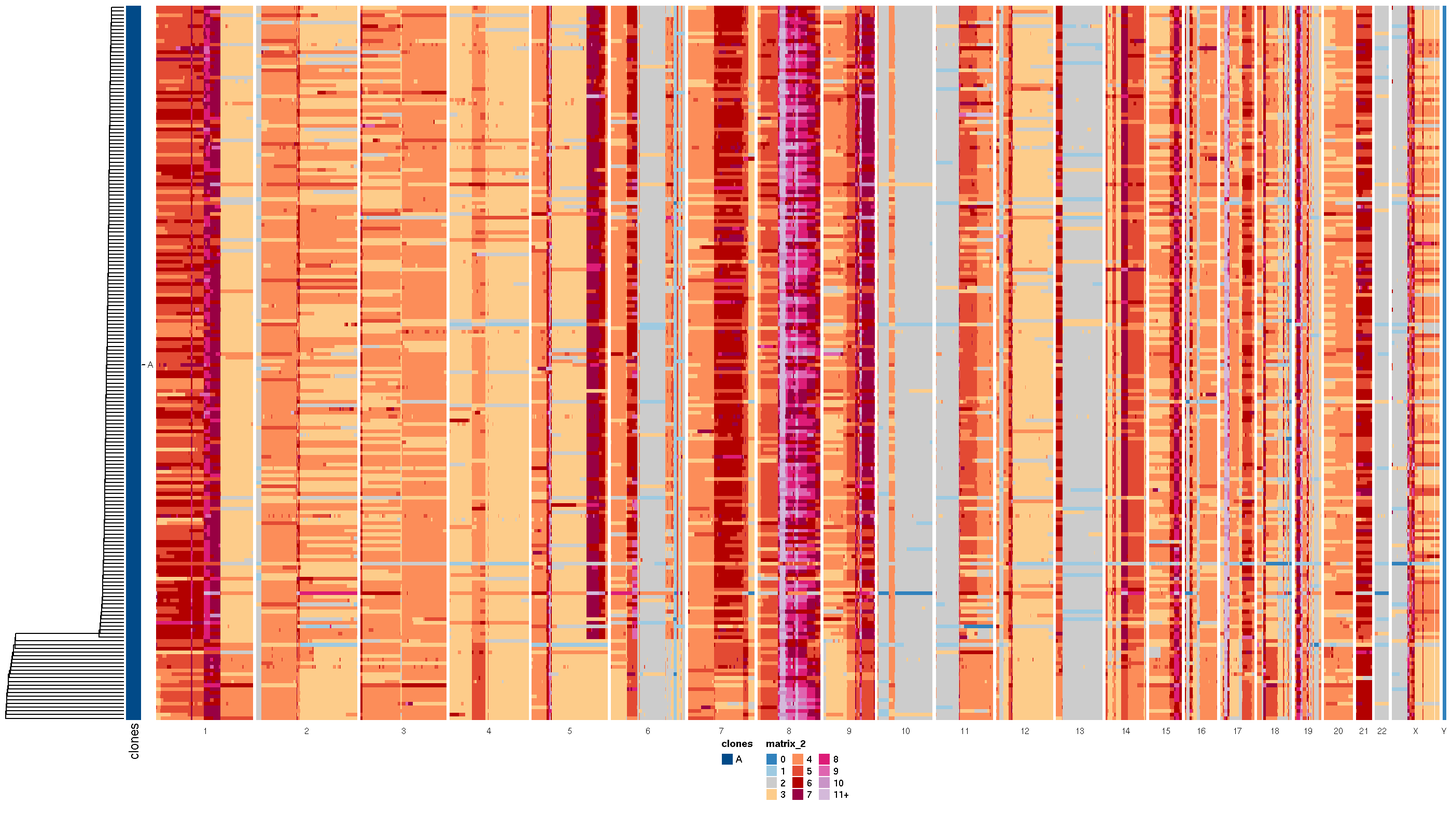
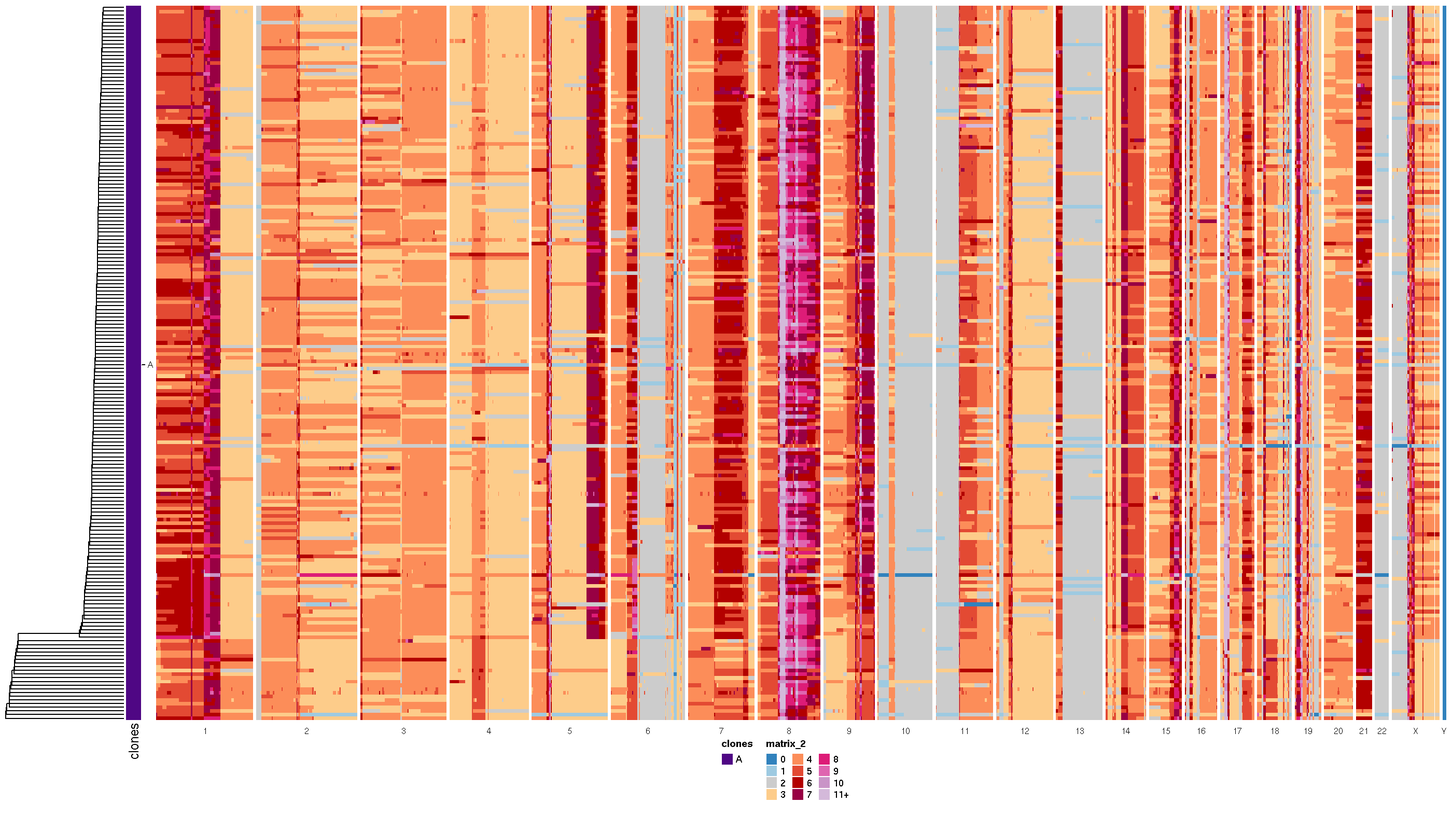
chore: rerender vignette

Changed region(s): [[0.0621, 0.0, 0.9943, 0.875], [0.4971, 0.9062, 0.5282, 0.9375]]

diff --git a/vignettes/basic_analyses_and_heatmaps.html b/vignettes/basic_analyses_and_heatmaps.html
@@ -391,10 +391,10 @@ these in relation to your project and sequence data at hand.</p>
 <span id="cb3-14"><a href="#cb3-14" tabindex="-1"></a>  dplyr<span class="sc">::</span><span class="fu">mutate</span>(</span>
 <span id="cb3-15"><a href="#cb3-15" tabindex="-1"></a>    <span class="at">good_cell =</span> dplyr<span class="sc">::</span><span class="fu">if_else</span>(</span>
 <span id="cb3-16"><a href="#cb3-16" tabindex="-1"></a>      quality <span class="sc">&gt;=</span> <span class="fl">0.75</span> <span class="sc">&amp;</span> <span class="co"># cells of high RF quality</span></span>
-<span id="cb3-17"><a href="#cb3-17" tabindex="-1"></a>      <span class="sc">!</span>is_control <span class="sc">&amp;</span> <span class="co"># non-control cells</span></span>
-<span id="cb3-18"><a href="#cb3-18" tabindex="-1"></a>      cell_call <span class="sc">==</span> <span class="st">&quot;C1&quot;</span> <span class="sc">&amp;</span> <span class="co"># live cells</span></span>
-<span id="cb3-19"><a href="#cb3-19" tabindex="-1"></a>      <span class="sc">!</span>is_s_phase <span class="sc">&amp;</span> <span class="co"># that are not estimated to be in S-phase</span></span>
-<span id="cb3-20"><a href="#cb3-20" tabindex="-1"></a>      total_mapped_reads <span class="sc">&gt;=</span> <span class="dv">250000</span>, <span class="co"># and have a reasonable amount of reads</span></span>
+<span id="cb3-17"><a href="#cb3-17" tabindex="-1"></a>        <span class="sc">!</span>is_control <span class="sc">&amp;</span> <span class="co"># non-control cells</span></span>
+<span id="cb3-18"><a href="#cb3-18" tabindex="-1"></a>        cell_call <span class="sc">==</span> <span class="st">&quot;C1&quot;</span> <span class="sc">&amp;</span> <span class="co"># live cells</span></span>
+<span id="cb3-19"><a href="#cb3-19" tabindex="-1"></a>        <span class="sc">!</span>is_s_phase <span class="sc">&amp;</span> <span class="co"># that are not estimated to be in S-phase</span></span>
+<span id="cb3-20"><a href="#cb3-20" tabindex="-1"></a>        total_mapped_reads <span class="sc">&gt;=</span> <span class="dv">250000</span>, <span class="co"># and have a reasonable amount of reads</span></span>
 <span id="cb3-21"><a href="#cb3-21" tabindex="-1"></a>      <span class="cn">TRUE</span>,</span>
 <span id="cb3-22"><a href="#cb3-22" tabindex="-1"></a>      <span class="cn">FALSE</span></span>
 <span id="cb3-23"><a href="#cb3-23" tabindex="-1"></a>    )</span>
@@ -419,28 +419,29 @@ for analyses with a few thresholds:</p>
 <span id="cb4-13"><a href="#cb4-13" tabindex="-1"></a><span class="co"># first, let&#39;s mark the ones that fall into regions we want to mask</span></span>
 <span id="cb4-14"><a href="#cb4-14" tabindex="-1"></a><span class="co"># see README.md for accessing this file.</span></span>
 <span id="cb4-15"><a href="#cb4-15" tabindex="-1"></a>reads <span class="ot">&lt;-</span> dlptools<span class="sc">::</span><span class="fu">mark_mask_regions</span>(</span>
-<span id="cb4-16"><a href="#cb4-16" tabindex="-1"></a>  reads, <span class="at">mask_f =</span> <span class="st">&quot;../meta_data/blacklist_2023.07.17.txt&quot;</span></span>
-<span id="cb4-17"><a href="#cb4-17" tabindex="-1"></a>)</span>
-<span id="cb4-18"><a href="#cb4-18" tabindex="-1"></a><span class="co">#&gt; Rows: 26 Columns: 4</span></span>
-<span id="cb4-19"><a href="#cb4-19" tabindex="-1"></a><span class="co">#&gt; ── Column specification ────────────────────────────────────────────────────────</span></span>
-<span id="cb4-20"><a href="#cb4-20" tabindex="-1"></a><span class="co">#&gt; Delimiter: &quot;\t&quot;</span></span>
-<span id="cb4-21"><a href="#cb4-21" tabindex="-1"></a><span class="co">#&gt; chr (1): seqnames</span></span>
-<span id="cb4-22"><a href="#cb4-22" tabindex="-1"></a><span class="co">#&gt; dbl (3): start, end, width</span></span>
-<span id="cb4-23"><a href="#cb4-23" tabindex="-1"></a><span class="co">#&gt; </span></span>
-<span id="cb4-24"><a href="#cb4-24" tabindex="-1"></a><span class="co">#&gt; ℹ Use `spec()` to retrieve the full column specification for this data.</span></span>
-<span id="cb4-25"><a href="#cb4-25" tabindex="-1"></a><span class="co">#&gt; ℹ Specify the column types or set `show_col_types = FALSE` to quiet this message.</span></span>
-<span id="cb4-26"><a href="#cb4-26" tabindex="-1"></a></span>
-<span id="cb4-27"><a href="#cb4-27" tabindex="-1"></a><span class="co"># then, we can add a column for which count as &quot;good&quot; bins</span></span>
-<span id="cb4-28"><a href="#cb4-28" tabindex="-1"></a>reads <span class="ot">&lt;-</span> reads <span class="sc">|&gt;</span></span>
-<span id="cb4-29"><a href="#cb4-29" tabindex="-1"></a>  dplyr<span class="sc">::</span><span class="fu">mutate</span>(</span>
-<span id="cb4-30"><a href="#cb4-30" tabindex="-1"></a>    <span class="at">good_bin =</span> dplyr<span class="sc">::</span><span class="fu">if_else</span>(</span>
-<span id="cb4-31"><a href="#cb4-31" tabindex="-1"></a>      <span class="sc">!</span>mask <span class="sc">&amp;</span> <span class="co"># does not fall into mask region</span></span>
-<span id="cb4-32"><a href="#cb4-32" tabindex="-1"></a>      gc <span class="sc">&gt;</span> <span class="sc">-</span><span class="dv">1</span> <span class="sc">&amp;</span> <span class="co"># bin went through GC correciton</span></span>
-<span id="cb4-33"><a href="#cb4-33" tabindex="-1"></a>      map <span class="sc">&gt;</span> <span class="fl">0.99</span>, <span class="co"># read bin is in a high mappability region</span></span>
-<span id="cb4-34"><a href="#cb4-34" tabindex="-1"></a>      <span class="cn">TRUE</span>,</span>
-<span id="cb4-35"><a href="#cb4-35" tabindex="-1"></a>      <span class="cn">FALSE</span></span>
-<span id="cb4-36"><a href="#cb4-36" tabindex="-1"></a>    )</span>
-<span id="cb4-37"><a href="#cb4-37" tabindex="-1"></a>  )</span></code></pre></div>
+<span id="cb4-16"><a href="#cb4-16" tabindex="-1"></a>  reads,</span>
+<span id="cb4-17"><a href="#cb4-17" tabindex="-1"></a>  <span class="at">mask_f =</span> <span class="st">&quot;../meta_data/blacklist_2023.07.17.txt&quot;</span></span>
+<span id="cb4-18"><a href="#cb4-18" tabindex="-1"></a>)</span>
+<span id="cb4-19"><a href="#cb4-19" tabindex="-1"></a><span class="co">#&gt; Rows: 26 Columns: 4</span></span>
+<span id="cb4-20"><a href="#cb4-20" tabindex="-1"></a><span class="co">#&gt; ── Column specification ────────────────────────────────────────────────────────</span></span>
+<span id="cb4-21"><a href="#cb4-21" tabindex="-1"></a><span class="co">#&gt; Delimiter: &quot;\t&quot;</span></span>
+<span id="cb4-22"><a href="#cb4-22" tabindex="-1"></a><span class="co">#&gt; chr (1): seqnames</span></span>
+<span id="cb4-23"><a href="#cb4-23" tabindex="-1"></a><span class="co">#&gt; dbl (3): start, end, width</span></span>
+<span id="cb4-24"><a href="#cb4-24" tabindex="-1"></a><span class="co">#&gt; </span></span>
+<span id="cb4-25"><a href="#cb4-25" tabindex="-1"></a><span class="co">#&gt; ℹ Use `spec()` to retrieve the full column specification for this data.</span></span>
+<span id="cb4-26"><a href="#cb4-26" tabindex="-1"></a><span class="co">#&gt; ℹ Specify the column types or set `show_col_types = FALSE` to quiet this message.</span></span>
+<span id="cb4-27"><a href="#cb4-27" tabindex="-1"></a></span>
+<span id="cb4-28"><a href="#cb4-28" tabindex="-1"></a><span class="co"># then, we can add a column for which count as &quot;good&quot; bins</span></span>
+<span id="cb4-29"><a href="#cb4-29" tabindex="-1"></a>reads <span class="ot">&lt;-</span> reads <span class="sc">|&gt;</span></span>
+<span id="cb4-30"><a href="#cb4-30" tabindex="-1"></a>  dplyr<span class="sc">::</span><span class="fu">mutate</span>(</span>
+<span id="cb4-31"><a href="#cb4-31" tabindex="-1"></a>    <span class="at">good_bin =</span> dplyr<span class="sc">::</span><span class="fu">if_else</span>(</span>
+<span id="cb4-32"><a href="#cb4-32" tabindex="-1"></a>      <span class="sc">!</span>mask <span class="sc">&amp;</span> <span class="co"># does not fall into mask region</span></span>
+<span id="cb4-33"><a href="#cb4-33" tabindex="-1"></a>        gc <span class="sc">&gt;</span> <span class="sc">-</span><span class="dv">1</span> <span class="sc">&amp;</span> <span class="co"># bin went through GC correciton</span></span>
+<span id="cb4-34"><a href="#cb4-34" tabindex="-1"></a>        map <span class="sc">&gt;</span> <span class="fl">0.99</span>, <span class="co"># read bin is in a high mappability region</span></span>
+<span id="cb4-35"><a href="#cb4-35" tabindex="-1"></a>      <span class="cn">TRUE</span>,</span>
+<span id="cb4-36"><a href="#cb4-36" tabindex="-1"></a>      <span class="cn">FALSE</span></span>
+<span id="cb4-37"><a href="#cb4-37" tabindex="-1"></a>    )</span>
+<span id="cb4-38"><a href="#cb4-38" tabindex="-1"></a>  )</span></code></pre></div>
 <p>Now we can combine the reads state calls with the metrics, i.e.,
 contextualizing the state calls with the cell level metrics:</p>
 <div class="sourceCode" id="cb5"><pre class="sourceCode r"><code class="sourceCode r"><span id="cb5-1"><a href="#cb5-1" tabindex="-1"></a>reads <span class="ot">&lt;-</span> dplyr<span class="sc">::</span><span class="fu">left_join</span>(</span>
@@ -535,7 +536,7 @@ of filtered reads.</p>
 <span id="cb7-31"><a href="#cb7-31" tabindex="-1"></a>  <span class="at">clones_df =</span> clusters<span class="sc">$</span>clustering,</span>
 <span id="cb7-32"><a href="#cb7-32" tabindex="-1"></a>  <span class="co"># can save direct to file by adding:</span></span>
 <span id="cb7-33"><a href="#cb7-33" tabindex="-1"></a>  <span class="co"># remove to print to screen (but plots are typically large)</span></span>
-<span id="cb7-34"><a href="#cb7-34" tabindex="-1"></a>  <span class="at">file_name=</span><span class="st">&quot;../example_heatmaps/example_hdbscan.png&quot;</span></span>
+<span id="cb7-34"><a href="#cb7-34" tabindex="-1"></a>  <span class="at">file_name =</span> <span class="st">&quot;../example_heatmaps/example_hdbscan.png&quot;</span></span>
 <span id="cb7-35"><a href="#cb7-35" tabindex="-1"></a>)</span>
 <span id="cb7-36"><a href="#cb7-36" tabindex="-1"></a><span class="co">#&gt; Registered S3 methods overwritten by &#39;treeio&#39;:</span></span>
 <span id="cb7-37"><a href="#cb7-37" tabindex="-1"></a><span class="co">#&gt;   method              from    </span></span>
@@ -591,68 +592,71 @@ of filtered reads.</p>
 <span id="cb7-87"><a href="#cb7-87" tabindex="-1"></a><span class="co">#&gt; &#39;magick&#39; package is suggested to install to give better rasterization.</span></span>
 <span id="cb7-88"><a href="#cb7-88" tabindex="-1"></a><span class="co">#&gt; </span></span>
 <span id="cb7-89"><a href="#cb7-89" tabindex="-1"></a><span class="co">#&gt; Set `ht_opt$message = FALSE` to turn off this message.</span></span></code></pre></div>
[2 lines of base64/hex data omitted]
+<div class="sourceCode" id="cb8"><pre class="sourceCode r"><code class="sourceCode r"><span id="cb8-1"><a href="#cb8-1" tabindex="-1"></a></span>
+<span id="cb8-2"><a href="#cb8-2" tabindex="-1"></a><span class="co"># this plot will look bad in the vignette, see the example ouputs in the</span></span>
+<span id="cb8-3"><a href="#cb8-3" tabindex="-1"></a><span class="co"># example_heatmaps/ folder.</span></span></code></pre></div>
 <p>If you’ve run sitka (perhaps using the <a href="https://github.com/molonc/sitka_wrapper">sitka_wrapper</a>), you
 can read in the newick tree file created and do much the same plot.
 Presumably you would have also used the leiden_cut method for clone
 labelling, and will need that file too.</p>
-<div class="sourceCode" id="cb8"><pre class="sourceCode r"><code class="sourceCode r"><span id="cb8-1"><a href="#cb8-1" tabindex="-1"></a><span class="co"># here, pulled from the example files in the tree_cutting/ section of the</span></span>
-<span id="cb8-2"><a href="#cb8-2" tabindex="-1"></a><span class="co"># sitka_wrapper repo linked above</span></span>
-<span id="cb8-3"><a href="#cb8-3" tabindex="-1"></a>sitka_files <span class="ot">&lt;-</span> <span class="st">&quot;/projects/molonc/aparicio_lab/bfurman/code/sitka_wrapper/tree_cutting/example_inputs/&quot;</span></span>
-<span id="cb8-4"><a href="#cb8-4" tabindex="-1"></a>clones_f <span class="ot">&lt;-</span> fs<span class="sc">::</span><span class="fu">path_join</span>(<span class="fu">c</span>(sitka_files, <span class="st">&quot;leiden_clones_reso010_nb10.csv&quot;</span>))</span>
-<span id="cb8-5"><a href="#cb8-5" tabindex="-1"></a>sitka_reads_f <span class="ot">&lt;-</span> fs<span class="sc">::</span><span class="fu">path_join</span>(<span class="fu">c</span>(sitka_files, <span class="st">&quot;filtered_cell_state_calls.csv.gz&quot;</span>))</span>
-<span id="cb8-6"><a href="#cb8-6" tabindex="-1"></a>sitka_tree_f <span class="ot">&lt;-</span> fs<span class="sc">::</span><span class="fu">path_join</span>(<span class="fu">c</span>(sitka_files, <span class="st">&quot;tree.newick&quot;</span>))</span>
-<span id="cb8-7"><a href="#cb8-7" tabindex="-1"></a></span>
-<span id="cb8-8"><a href="#cb8-8" tabindex="-1"></a><span class="co"># sitka trees need a little cleaning, so run through the tree formatting</span></span>
-<span id="cb8-9"><a href="#cb8-9" tabindex="-1"></a><span class="co"># function to drop &#39;locus_&#39; values at tips, and clean off &#39;cell_&#39; names from</span></span>
-<span id="cb8-10"><a href="#cb8-10" tabindex="-1"></a><span class="co"># tree leafs</span></span>
-<span id="cb8-11"><a href="#cb8-11" tabindex="-1"></a>sitka_tree <span class="ot">&lt;-</span> dlptools<span class="sc">::</span><span class="fu">import_tree</span>(sitka_tree_f) <span class="sc">|&gt;</span></span>
-<span id="cb8-12"><a href="#cb8-12" tabindex="-1"></a>  dlptools<span class="sc">::</span><span class="fu">format_sitka_tree</span>()</span>
-<span id="cb8-13"><a href="#cb8-13" tabindex="-1"></a></span>
-<span id="cb8-14"><a href="#cb8-14" tabindex="-1"></a><span class="co"># expects a file with columns of: cell_id, clone_id</span></span>
-<span id="cb8-15"><a href="#cb8-15" tabindex="-1"></a>clones <span class="ot">&lt;-</span> dlptools<span class="sc">::</span><span class="fu">import_clones</span>(clones_f)</span>
-<span id="cb8-16"><a href="#cb8-16" tabindex="-1"></a><span class="co">#&gt; Rows: 875 Columns: 3</span></span>
-<span id="cb8-17"><a href="#cb8-17" tabindex="-1"></a><span class="co">#&gt; ── Column specification ────────────────────────────────────────────────────────</span></span>
-<span id="cb8-18"><a href="#cb8-18" tabindex="-1"></a><span class="co">#&gt; Delimiter: &quot;,&quot;</span></span>
-<span id="cb8-19"><a href="#cb8-19" tabindex="-1"></a><span class="co">#&gt; chr (2): cell_id, clone_id</span></span>
-<span id="cb8-20"><a href="#cb8-20" tabindex="-1"></a><span class="co">#&gt; dbl (1): clone_label</span></span>
-<span id="cb8-21"><a href="#cb8-21" tabindex="-1"></a><span class="co">#&gt; </span></span>
-<span id="cb8-22"><a href="#cb8-22" tabindex="-1"></a><span class="co">#&gt; ℹ Use `spec()` to retrieve the full column specification for this data.</span></span>
-<span id="cb8-23"><a href="#cb8-23" tabindex="-1"></a><span class="co">#&gt; ℹ Specify the column types or set `show_col_types = FALSE` to quiet this message.</span></span>
-<span id="cb8-24"><a href="#cb8-24" tabindex="-1"></a></span>
-<span id="cb8-25"><a href="#cb8-25" tabindex="-1"></a><span class="co"># standard sitka input format</span></span>
-<span id="cb8-26"><a href="#cb8-26" tabindex="-1"></a>sitka_reads <span class="ot">&lt;-</span> dlptools<span class="sc">::</span><span class="fu">import_wideformat_states_file</span>(sitka_reads_f)</span>
-<span id="cb8-27"><a href="#cb8-27" tabindex="-1"></a><span class="co">#&gt; New names:</span></span>
-<span id="cb8-28"><a href="#cb8-28" tabindex="-1"></a><span class="co">#&gt; Rows: 4338 Columns: 876</span></span>
-<span id="cb8-29"><a href="#cb8-29" tabindex="-1"></a><span class="co">#&gt; ── Column specification</span></span>
-<span id="cb8-30"><a href="#cb8-30" tabindex="-1"></a><span class="co">#&gt; ──────────────────────────────────────────────────────── Delimiter: &quot;,&quot; chr</span></span>
-<span id="cb8-31"><a href="#cb8-31" tabindex="-1"></a><span class="co">#&gt; (1): ...1 dbl (875): AT21552-A138971A-R03-C09, AT21552-A138971A-R03-C10,</span></span>
-<span id="cb8-32"><a href="#cb8-32" tabindex="-1"></a><span class="co">#&gt; AT21552-A1389...</span></span>
-<span id="cb8-33"><a href="#cb8-33" tabindex="-1"></a><span class="co">#&gt; ℹ Use `spec()` to retrieve the full column specification for this data. ℹ</span></span>
-<span id="cb8-34"><a href="#cb8-34" tabindex="-1"></a><span class="co">#&gt; Specify the column types or set `show_col_types = FALSE` to quiet this message.</span></span>
-<span id="cb8-35"><a href="#cb8-35" tabindex="-1"></a><span class="co">#&gt; • `` -&gt; `...1`</span></span>
-<span id="cb8-36"><a href="#cb8-36" tabindex="-1"></a></span>
-<span id="cb8-37"><a href="#cb8-37" tabindex="-1"></a><span class="co"># set up or read external annotations file with: </span></span>
-<span id="cb8-38"><a href="#cb8-38" tabindex="-1"></a><span class="co"># dlptools::import_annotations_df(anno_file)</span></span>
-<span id="cb8-39"><a href="#cb8-39" tabindex="-1"></a>anno_df <span class="ot">&lt;-</span> <span class="fu">tibble</span>(</span>
-<span id="cb8-40"><a href="#cb8-40" tabindex="-1"></a>  <span class="co"># bit of a boring example, because we only have one sample and one library</span></span>
-<span id="cb8-41"><a href="#cb8-41" tabindex="-1"></a>  <span class="at">sample_id =</span> <span class="fu">c</span>(<span class="st">&quot;AT21552&quot;</span>, <span class="st">&quot;AT21350&quot;</span>),</span>
-<span id="cb8-42"><a href="#cb8-42" tabindex="-1"></a>  <span class="at">passage =</span> <span class="fu">c</span>(<span class="st">&quot;p3&quot;</span>, <span class="st">&quot;p23&quot;</span>),</span>
-<span id="cb8-43"><a href="#cb8-43" tabindex="-1"></a>  <span class="at">somthing_else =</span> <span class="fu">c</span>(<span class="st">&quot;featureA&quot;</span>, <span class="st">&quot;featureB&quot;</span>)</span>
-<span id="cb8-44"><a href="#cb8-44" tabindex="-1"></a>)</span>
-<span id="cb8-45"><a href="#cb8-45" tabindex="-1"></a></span>
-<span id="cb8-46"><a href="#cb8-46" tabindex="-1"></a>dlptools<span class="sc">::</span><span class="fu">create_tree_copynumber_heatmap</span>(</span>
-<span id="cb8-47"><a href="#cb8-47" tabindex="-1"></a>  <span class="at">phylo_tree =</span> sitka_tree,</span>
-<span id="cb8-48"><a href="#cb8-48" tabindex="-1"></a>  <span class="at">states_df =</span> sitka_reads,</span>
-<span id="cb8-49"><a href="#cb8-49" tabindex="-1"></a>  <span class="at">clones_df =</span> clones,</span>
-<span id="cb8-50"><a href="#cb8-50" tabindex="-1"></a>  <span class="at">annos_df =</span> anno_df,</span>
-<span id="cb8-51"><a href="#cb8-51" tabindex="-1"></a>  <span class="at">file_name=</span><span class="st">&quot;../example_heatmaps/example_sitka.png&quot;</span></span>
-<span id="cb8-52"><a href="#cb8-52" tabindex="-1"></a>)</span>
-<span id="cb8-53"><a href="#cb8-53" tabindex="-1"></a><span class="co">#&gt; &#39;magick&#39; package is suggested to install to give better rasterization.</span></span>
-<span id="cb8-54"><a href="#cb8-54" tabindex="-1"></a><span class="co">#&gt; </span></span>
-<span id="cb8-55"><a href="#cb8-55" tabindex="-1"></a><span class="co">#&gt; Set `ht_opt$message = FALSE` to turn off this message.</span></span>
-<span id="cb8-56"><a href="#cb8-56" tabindex="-1"></a><span class="co">#&gt; PNG </span></span>
-<span id="cb8-57"><a href="#cb8-57" tabindex="-1"></a><span class="co">#&gt;   2</span></span></code></pre></div>
+<div class="sourceCode" id="cb9"><pre class="sourceCode r"><code class="sourceCode r"><span id="cb9-1"><a href="#cb9-1" tabindex="-1"></a><span class="co"># here, pulled from the example files in the tree_cutting/ section of the</span></span>
+<span id="cb9-2"><a href="#cb9-2" tabindex="-1"></a><span class="co"># sitka_wrapper repo linked above</span></span>
+<span id="cb9-3"><a href="#cb9-3" tabindex="-1"></a>sitka_files <span class="ot">&lt;-</span> <span class="st">&quot;/projects/molonc/aparicio_lab/bfurman/code/sitka_wrapper/tree_cutting/example_inputs/&quot;</span></span>
+<span id="cb9-4"><a href="#cb9-4" tabindex="-1"></a>clones_f <span class="ot">&lt;-</span> fs<span class="sc">::</span><span class="fu">path_join</span>(<span class="fu">c</span>(sitka_files, <span class="st">&quot;leiden_clones_reso010_nb10.csv&quot;</span>))</span>
+<span id="cb9-5"><a href="#cb9-5" tabindex="-1"></a>sitka_reads_f <span class="ot">&lt;-</span> fs<span class="sc">::</span><span class="fu">path_join</span>(<span class="fu">c</span>(sitka_files, <span class="st">&quot;filtered_cell_state_calls.csv.gz&quot;</span>))</span>
+<span id="cb9-6"><a href="#cb9-6" tabindex="-1"></a>sitka_tree_f <span class="ot">&lt;-</span> fs<span class="sc">::</span><span class="fu">path_join</span>(<span class="fu">c</span>(sitka_files, <span class="st">&quot;tree.newick&quot;</span>))</span>
+<span id="cb9-7"><a href="#cb9-7" tabindex="-1"></a></span>
+<span id="cb9-8"><a href="#cb9-8" tabindex="-1"></a><span class="co"># sitka trees need a little cleaning, so run through the tree formatting</span></span>
+<span id="cb9-9"><a href="#cb9-9" tabindex="-1"></a><span class="co"># function to drop &#39;locus_&#39; values at tips, and clean off &#39;cell_&#39; names from</span></span>
+<span id="cb9-10"><a href="#cb9-10" tabindex="-1"></a><span class="co"># tree leafs</span></span>
+<span id="cb9-11"><a href="#cb9-11" tabindex="-1"></a>sitka_tree <span class="ot">&lt;-</span> dlptools<span class="sc">::</span><span class="fu">import_tree</span>(sitka_tree_f) <span class="sc">|&gt;</span></span>
+<span id="cb9-12"><a href="#cb9-12" tabindex="-1"></a>  dlptools<span class="sc">::</span><span class="fu">format_sitka_tree</span>()</span>
+<span id="cb9-13"><a href="#cb9-13" tabindex="-1"></a></span>
+<span id="cb9-14"><a href="#cb9-14" tabindex="-1"></a><span class="co"># expects a file with columns of: cell_id, clone_id</span></span>
+<span id="cb9-15"><a href="#cb9-15" tabindex="-1"></a>clones <span class="ot">&lt;-</span> dlptools<span class="sc">::</span><span class="fu">import_clones</span>(clones_f)</span>
+<span id="cb9-16"><a href="#cb9-16" tabindex="-1"></a><span class="co">#&gt; Rows: 875 Columns: 3</span></span>
+<span id="cb9-17"><a href="#cb9-17" tabindex="-1"></a><span class="co">#&gt; ── Column specification ────────────────────────────────────────────────────────</span></span>
+<span id="cb9-18"><a href="#cb9-18" tabindex="-1"></a><span class="co">#&gt; Delimiter: &quot;,&quot;</span></span>
+<span id="cb9-19"><a href="#cb9-19" tabindex="-1"></a><span class="co">#&gt; chr (2): cell_id, clone_id</span></span>
+<span id="cb9-20"><a href="#cb9-20" tabindex="-1"></a><span class="co">#&gt; dbl (1): clone_label</span></span>
+<span id="cb9-21"><a href="#cb9-21" tabindex="-1"></a><span class="co">#&gt; </span></span>
+<span id="cb9-22"><a href="#cb9-22" tabindex="-1"></a><span class="co">#&gt; ℹ Use `spec()` to retrieve the full column specification for this data.</span></span>
+<span id="cb9-23"><a href="#cb9-23" tabindex="-1"></a><span class="co">#&gt; ℹ Specify the column types or set `show_col_types = FALSE` to quiet this message.</span></span>
+<span id="cb9-24"><a href="#cb9-24" tabindex="-1"></a></span>
+<span id="cb9-25"><a href="#cb9-25" tabindex="-1"></a><span class="co"># standard sitka input format</span></span>
+<span id="cb9-26"><a href="#cb9-26" tabindex="-1"></a>sitka_reads <span class="ot">&lt;-</span> dlptools<span class="sc">::</span><span class="fu">import_wideformat_states_file</span>(sitka_reads_f)</span>
+<span id="cb9-27"><a href="#cb9-27" tabindex="-1"></a><span class="co">#&gt; New names:</span></span>
+<span id="cb9-28"><a href="#cb9-28" tabindex="-1"></a><span class="co">#&gt; Rows: 4338 Columns: 876</span></span>
+<span id="cb9-29"><a href="#cb9-29" tabindex="-1"></a><span class="co">#&gt; ── Column specification</span></span>
+<span id="cb9-30"><a href="#cb9-30" tabindex="-1"></a><span class="co">#&gt; ──────────────────────────────────────────────────────── Delimiter: &quot;,&quot; chr</span></span>
+<span id="cb9-31"><a href="#cb9-31" tabindex="-1"></a><span class="co">#&gt; (1): ...1 dbl (875): AT21552-A138971A-R03-C09, AT21552-A138971A-R03-C10,</span></span>
+<span id="cb9-32"><a href="#cb9-32" tabindex="-1"></a><span class="co">#&gt; AT21552-A1389...</span></span>
+<span id="cb9-33"><a href="#cb9-33" tabindex="-1"></a><span class="co">#&gt; ℹ Use `spec()` to retrieve the full column specification for this data. ℹ</span></span>
+<span id="cb9-34"><a href="#cb9-34" tabindex="-1"></a><span class="co">#&gt; Specify the column types or set `show_col_types = FALSE` to quiet this message.</span></span>
+<span id="cb9-35"><a href="#cb9-35" tabindex="-1"></a><span class="co">#&gt; • `` -&gt; `...1`</span></span>
+<span id="cb9-36"><a href="#cb9-36" tabindex="-1"></a></span>
+<span id="cb9-37"><a href="#cb9-37" tabindex="-1"></a><span class="co"># set up or read external annotations file with:</span></span>
+<span id="cb9-38"><a href="#cb9-38" tabindex="-1"></a><span class="co"># dlptools::import_annotations_df(anno_file)</span></span>
+<span id="cb9-39"><a href="#cb9-39" tabindex="-1"></a>anno_df <span class="ot">&lt;-</span> <span class="fu">tibble</span>(</span>
+<span id="cb9-40"><a href="#cb9-40" tabindex="-1"></a>  <span class="co"># bit of a boring example, because we only have one sample and one library</span></span>
+<span id="cb9-41"><a href="#cb9-41" tabindex="-1"></a>  <span class="at">sample_id =</span> <span class="fu">c</span>(<span class="st">&quot;AT21552&quot;</span>, <span class="st">&quot;AT21350&quot;</span>),</span>
+<span id="cb9-42"><a href="#cb9-42" tabindex="-1"></a>  <span class="at">passage =</span> <span class="fu">c</span>(<span class="st">&quot;p3&quot;</span>, <span class="st">&quot;p23&quot;</span>),</span>
+<span id="cb9-43"><a href="#cb9-43" tabindex="-1"></a>  <span class="at">somthing_else =</span> <span class="fu">c</span>(<span class="st">&quot;featureA&quot;</span>, <span class="st">&quot;featureB&quot;</span>)</span>
+<span id="cb9-44"><a href="#cb9-44" tabindex="-1"></a>)</span>
+<span id="cb9-45"><a href="#cb9-45" tabindex="-1"></a></span>
+<span id="cb9-46"><a href="#cb9-46" tabindex="-1"></a>dlptools<span class="sc">::</span><span class="fu">create_tree_copynumber_heatmap</span>(</span>
+<span id="cb9-47"><a href="#cb9-47" tabindex="-1"></a>  <span class="at">phylo_tree =</span> sitka_tree,</span>
+<span id="cb9-48"><a href="#cb9-48" tabindex="-1"></a>  <span class="at">states_df =</span> sitka_reads,</span>
+<span id="cb9-49"><a href="#cb9-49" tabindex="-1"></a>  <span class="at">clones_df =</span> clones,</span>
+<span id="cb9-50"><a href="#cb9-50" tabindex="-1"></a>  <span class="at">annos_df =</span> anno_df,</span>
+<span id="cb9-51"><a href="#cb9-51" tabindex="-1"></a>  <span class="at">file_name =</span> <span class="st">&quot;../example_heatmaps/example_sitka.png&quot;</span></span>
+<span id="cb9-52"><a href="#cb9-52" tabindex="-1"></a>)</span>
+<span id="cb9-53"><a href="#cb9-53" tabindex="-1"></a><span class="co">#&gt; &#39;magick&#39; package is suggested to install to give better rasterization.</span></span>
+<span id="cb9-54"><a href="#cb9-54" tabindex="-1"></a><span class="co">#&gt; </span></span>
+<span id="cb9-55"><a href="#cb9-55" tabindex="-1"></a><span class="co">#&gt; Set `ht_opt$message = FALSE` to turn off this message.</span></span>
+<span id="cb9-56"><a href="#cb9-56" tabindex="-1"></a><span class="co">#&gt; PNG </span></span>
+<span id="cb9-57"><a href="#cb9-57" tabindex="-1"></a><span class="co">#&gt;   2</span></span></code></pre></div>
 </div>
 </div>
 
